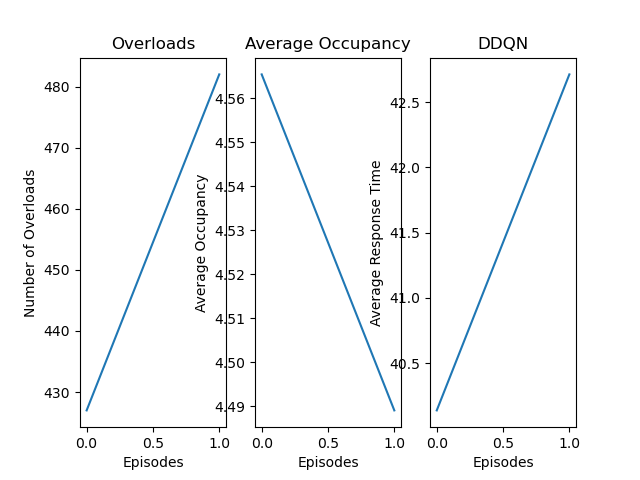
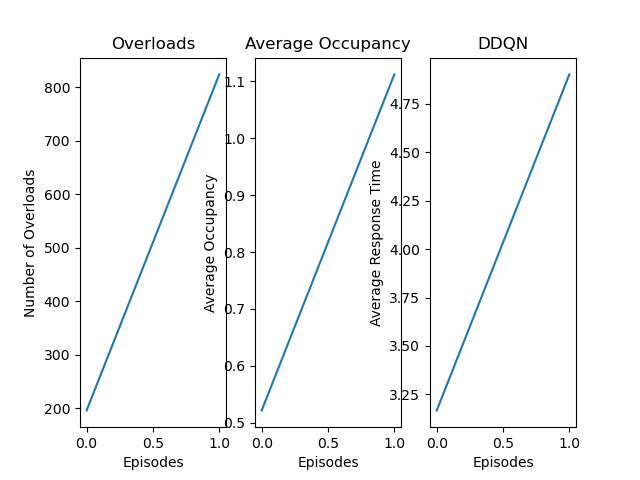
Adding the reduction of the environment to the 3 node case.

diff --git a/src/PeersimEnv.py b/src/PeersimEnv.py
@@ -20,6 +20,7 @@ import traceback
 
 import torch as T
 
+
 def print_all_csv(dir="./Plots/"):
     # Help from ChatGPT
     csv_files = [file for file in os.listdir(dir) if file.endswith(".csv")]
@@ -41,17 +42,48 @@ def print_all_csv(dir="./Plots/"):
     plt.show()
     return
 
-controllers = ["1"]  # , "5" only one for now...
 
-task_probs = [1]
-task_sizes = [150]
-task_instr = [4e7]
-task_CPI = [1]
+controllers = ["0"]  # , "5" only one for now...
+config_dict = ch.generate_config_dict(expected_occupancy=0.8,
+                                      controllers=controllers,
+                                      # Simulation Parameters
+                                      size=3,
+                                      simulation_time=1000,
+                                      frequency_of_action=5,
+                                      has_cloud=0,
+                                      cloud_VM_processing_power=[1e8],
+
+                                      nodes_per_layer=[1, 1, 1],
+                                      cloud_access=[0, 0, 0],
+                                      freqs_per_layer=[2e7, 1e7, 4e7],
+                                      no_cores_per_layer=[1, 1, 2],
+                                      q_max_per_layer=[10, 5, 50],
+                                      variations_per_layer=[0, 0, 0],
+
+                                      task_probs=[1],
+                                      task_sizes=[150],
+                                      task_instr=[4e7],
+                                      task_CPI=[1],
+                                      task_deadlines=[100],
+                                      target_time_for_occupancy=0.5,
+
+                                      comm_B=2,
+                                      comm_Beta1=0.001,
+                                      comm_Beta2=4,
+                                      comm_Power=20,
+
+                                      weight_utility=10,
+                                      weight_delay=1,
+                                      weight_overload=150,
+                                      RANDOMIZETOPOLOGY=False,
+                                      RANDOMIZEPOSITIONS=False,
+                                      POSITIONS="18.55895350495783,17.02475796027715;19.56499372388999,17.28732691557995;5.366872150976409,13.28729893321355",
+                                      TOPOLOGY="0,1,2;1,0;2,0")
 
 if __name__ == '__main__':
     # log_dir='logs/'
     log_dir = None
-    config_dict = ch.generate_config_dict(expected_occupancy=0.8, controllers=controllers, task_probs=task_probs, task_sizes=task_sizes, task_instr=task_instr, task_CPI=task_CPI, RANDOMIZEPOSITIONS=False, RANDOMIZETOPOLOGY=False)
+
     env = PeersimEnv(configs=config_dict, render_mode=None, simtype="basic", log_dir=log_dir, randomize_seed=True)
     env.reset()
 
@@ -73,7 +105,7 @@ if __name__ == '__main__':
     epsilon = 0.1
     train = 100
     test = 1
-    num_episodes = 2
+    num_episodes = 500
 
     # For plotting metrics
     all_epochs = []
@@ -86,7 +118,7 @@ if __name__ == '__main__':
                           action_space=env.action_space("worker_0"),  # TODO: This is a hack... Fix this ffs
                           batch_size=100,
                           epsilon_start=1.0,
-                          epsilon_decay=(1.0 - 0.1)/(num_episodes * 500),
+                          epsilon_decay=(1.0 - 0.1) / (num_episodes * 500),
                           epsilon_end=0.1,
                           gamma=0.99,
                           update_interval=150,

diff --git a/src/Utils/MetricHelper.py b/src/Utils/MetricHelper.py
@@ -25,6 +25,8 @@ class MetricHelper:
         self._aux_average_reward = 0
         self.average_loss = []
 
+        self.density_of_actions = {agent: {} for agent in agents}
+
         self.num_episodes = num_episodes
         self.num_nodes = num_nodes
         self.agents = agents
@@ -43,6 +45,8 @@ class MetricHelper:
         self.average_rewards += [self._aux_average_reward / no_steps]
 
         self.__reset_step_metrics()
+    def register_action(self, action, agent):
+        self.density_of_actions[agent] += [action]
 
     def episode_average_reward(self, episode=-1):
         return self.average_rewards[episode]
@@ -95,8 +99,10 @@ class MetricHelper:
             ax[1].plot(x, agent_mean_loss, label=agent)
 
         if print_instead:
+            print(f"Saving plot plt_train_metrics_{title}")
             plt.savefig(f"./Plots/plt_train_metrics_{title}")
         else:
+            print(f"Showing plot {title}")
             plt.show()
 
     def plot_simulation_data(self, num_episodes, title='default', print_instead=False, csv_dump=True):
@@ -123,8 +129,10 @@ class MetricHelper:
         if title != 'default':
             plt.title(title)
         if print_instead:
+            print(f"Saving plot plt_sim_data_{title}")
             plt.savefig(f"./Plots/plt_sim_data_{title}")
         else:
+            print(f"Showing plot {title}")
             plt.show()
 
         if csv_dump:
@@ -141,6 +149,7 @@ class MetricHelper:
         return
 
     def store_as_cvs(self, file_name):
+        print(f"Storing as csv {file_name}")
         headers = []
         rows = []
 
